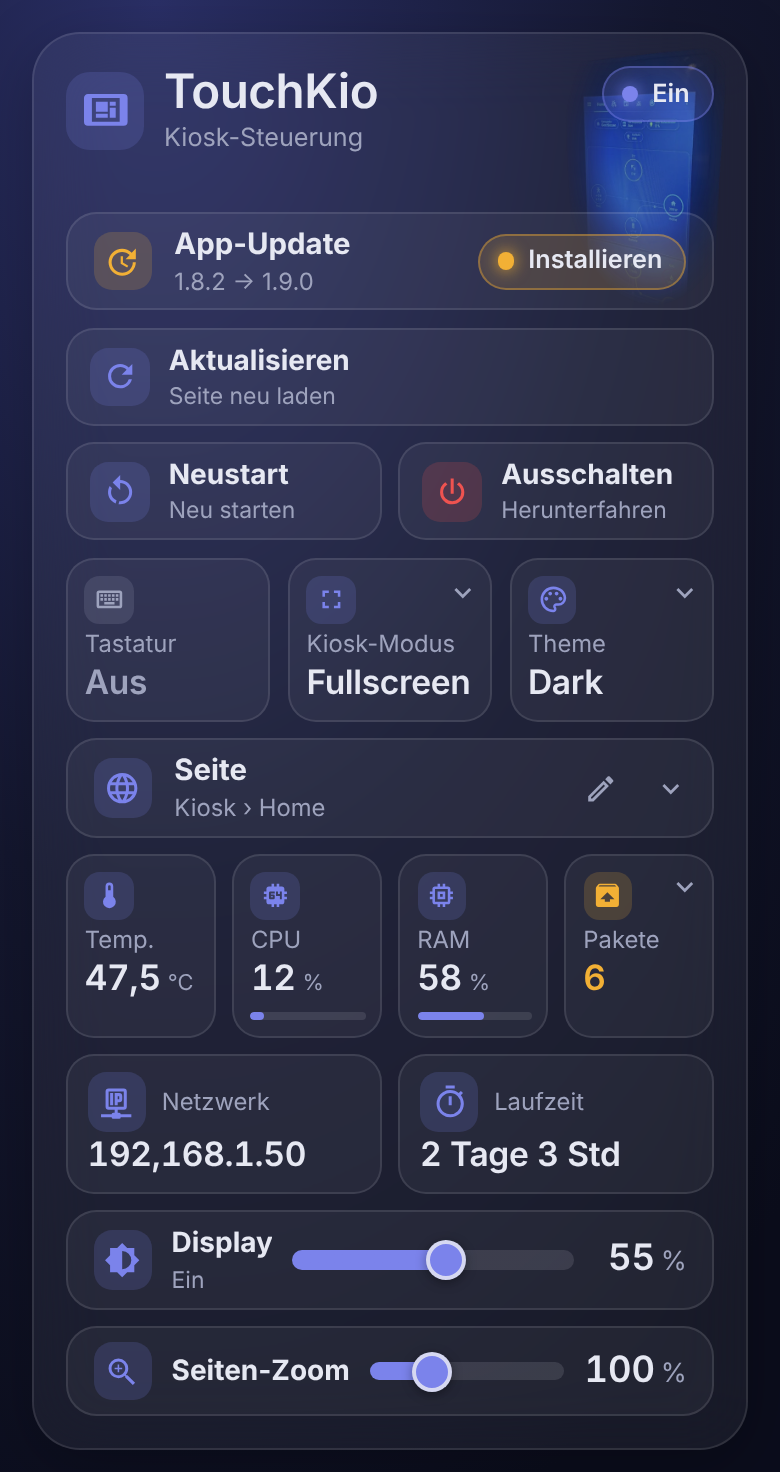
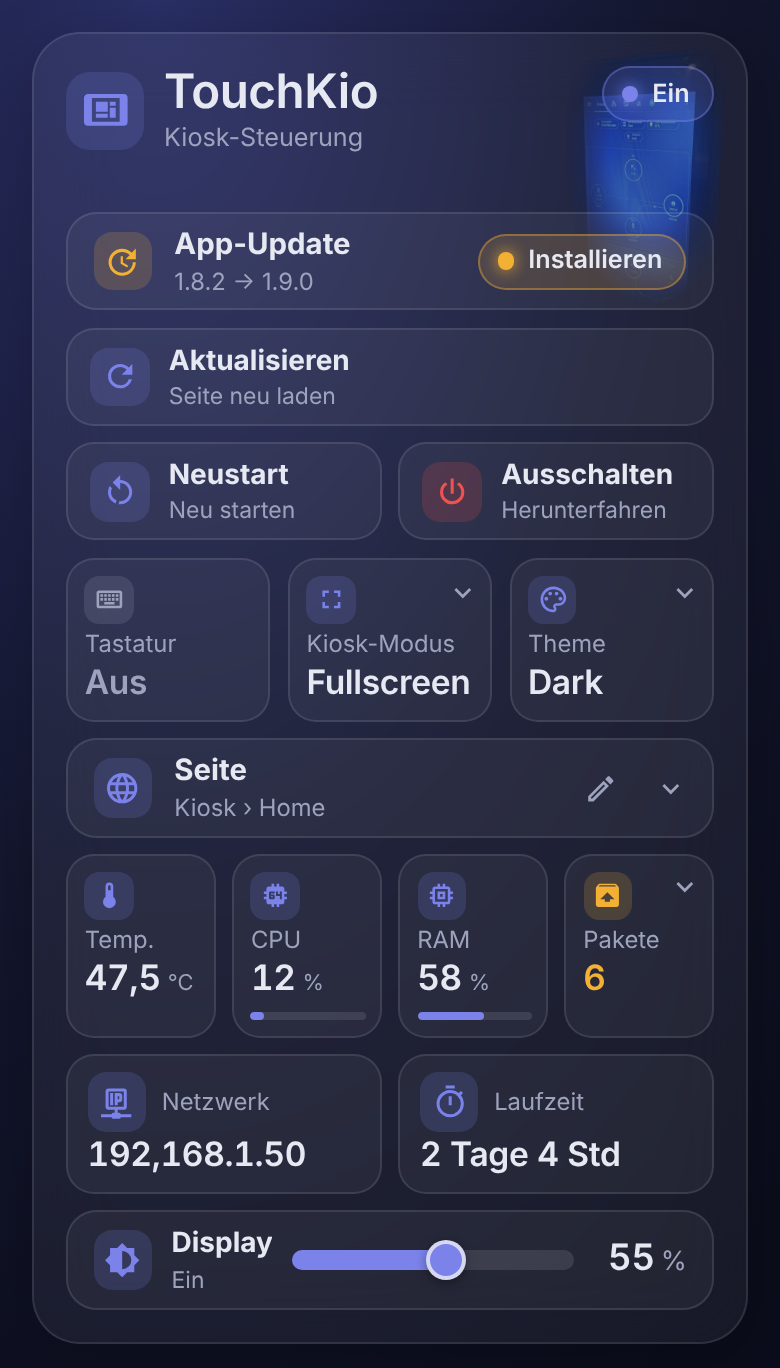
Seiten-Zoom entfernt, Laufzeit mit automatischer Einheit
- Box "Seiten-Zoom" und zoom_entity entfernt (Konfiguration, Editor, Doku).
- Laufzeit rechnet die vom Sensor gemeldeten Minuten in die passende Einheit um:
  "42 Min", "5 Std 12 Min", "2 Tage 4 Std".
- README-Screenshot aktualisiert.

Claude-Session: https://claude.ai/code/session_01KJcarzScGQfGHJyYJKzoFc

diff --git a/touchkio-card.js b/touchkio-card.js
@@ -12,7 +12,6 @@ const DEF={title:"TouchKio",subtitle:"Kiosk-Steuerung",show_image:true,image_url
   kiosk_entity:"select.touchkio_touchkio_kiosk",
   theme_entity:"select.touchkio_touchkio_theme",
   url_entity:"text.touchkio_touchkio_page_url",
-  zoom_entity:"number.touchkio_touchkio_page_zoom",
   temperature_entity:"sensor.touchkio_touchkio_processor_temperature",
   cpu_entity:"sensor.touchkio_touchkio_processor_usage",
   memory_entity:"sensor.touchkio_touchkio_memory_usage",
@@ -30,12 +29,12 @@ class TouchkioCard extends HTMLElement{
   static getConfigForm(){
     const e=(n,d)=>({name:n,selector:{entity:d?{domain:d}:{}}}),t=n=>({name:n,selector:{text:{}}}),x=(name,title,schema)=>({type:"expandable",name,title,flatten:true,schema});
     const L={title:"Titel",subtitle:"Untertitel",show_image:"Gerätebild als Hintergrund anzeigen",image_url:"Eigenes Gerätebild (URL, optional)",scale:"Größe (Kiosk: 1,2 – 1,5)",confirm_actions:"Neustart/Herunterfahren bestätigen lassen",
-      display_entity:"Display (Helligkeit)",keyboard_entity:"Bildschirmtastatur",kiosk_entity:"Kiosk-Modus",theme_entity:"Theme",url_entity:"Seiten-URL (Text-Entität, Seitenauswahl)",zoom_entity:"Seiten-Zoom",
+      display_entity:"Display (Helligkeit)",keyboard_entity:"Bildschirmtastatur",kiosk_entity:"Kiosk-Modus",theme_entity:"Theme",url_entity:"Seiten-URL (Text-Entität, Seitenauswahl)",
       temperature_entity:"Prozessor-Temperatur",cpu_entity:"Prozessor-Auslastung",memory_entity:"Speichernutzung",packages_entity:"Paket-Updates",network_entity:"Netzwerkadresse",uptime_entity:"Laufzeit",
       update_title:"Titel",update_entity:"Update-Entität",refresh_entity:"Seite aktualisieren",reboot_entity:"Neustart",shutdown_entity:"Herunterfahren"};
     return{schema:[
       x("general","Allgemein",[t("title"),t("subtitle"),{name:"show_image",selector:{boolean:{}}},t("image_url"),{name:"scale",selector:{number:{min:.8,max:1.8,step:.05,mode:"slider"}}},{name:"confirm_actions",selector:{boolean:{}}}]),
-      x("control","Steuerung",[e("display_entity","light"),e("zoom_entity","number"),e("keyboard_entity","switch"),e("kiosk_entity","select"),e("theme_entity","select"),e("url_entity","text")]),
+      x("control","Steuerung",[e("display_entity","light"),e("keyboard_entity","switch"),e("kiosk_entity","select"),e("theme_entity","select"),e("url_entity","text")]),
       x("system","System",[e("temperature_entity","sensor"),e("cpu_entity","sensor"),e("memory_entity","sensor"),e("packages_entity","sensor"),e("network_entity","sensor"),e("uptime_entity","sensor")]),
       x("update","Update",[t("update_title"),e("update_entity","update")]),
       x("actions","Aktionen",[e("refresh_entity","button"),e("reboot_entity","button"),e("shutdown_entity","button")])],
@@ -137,10 +136,21 @@ class TouchkioCard extends HTMLElement{
       groups.map(g=>`<optgroup label="${this._e(g.group)}">${g.items.map(it=>`<option value="${this._e(it.url)}"${cur&&norm(it.url)===norm(cur)?" selected":""}>${this._e(it.label)}</option>`).join("")}</optgroup>`).join("");
     return`<div class="panel row pick"><span class="chip"><ha-icon icon="mdi:web"></ha-icon></span><span class="ut"><b>Seite</b><small>${this._e(sub)}</small></span><button class="edit" data-more="${this._e(id)}" aria-label="URL bearbeiten"><ha-icon icon="mdi:pencil-outline"></ha-icon></button><ha-icon class="chev" icon="mdi:chevron-down"></ha-icon><select data-page="${this._e(id)}" aria-label="Seite wählen">${opts}</select></div>`;
   }
-  _tile(icon,id,label,tone,bar,text,act){
-    const v=text?{value:this._f(id),unit:"",num:NaN,text:true}:this._val(id);
+  _tile(icon,id,label,tone,bar,text,act,override){
+    const v=text?{value:override??this._f(id),unit:"",num:NaN,text:true}:this._val(id);
     const b=bar&&!isNaN(v.num)&&v.unit==="%"?`<i class="bar"><u style="width:${Math.max(0,Math.min(100,v.num))}%"></u></i>`:"";
     return`<button class="tile tone-${tone}" ${act==="pkgs"?`data-pkgs="1" aria-expanded="${!!this._pkgOpen}"`:`data-more="${this._e(id)}"`} aria-label="${this._e(label)}: ${this._e(v.value)} ${this._e(v.unit)}"><span class="chip"><ha-icon icon="${icon}"></ha-icon></span><span class="lbl">${label}</span><span class="val${v.text?" txt":""}"><b>${this._e(v.value)}</b>${v.unit?`<em>${this._e(v.unit)}</em>`:""}</span>${b}${act==="pkgs"?`<ha-icon class="chev" icon="mdi:chevron-${this._pkgOpen?"up":"down"}"></ha-icon>`:""}</button>`;
+  }
+  // Laufzeit in passender Einheit: "42 Min", "5 Std 12 Min", "2 Tage 3 Std" (TouchKio meldet Minuten)
+  _uptime(id){
+    const s=this._s(id);if(this._bad(s))return"—";
+    const n=Number(String(s.state).replace(",","."));if(!Number.isFinite(n)||n<0)return this._f(id);
+    const f={s:1/60,sec:1/60,min:1,h:60,d:1440}[String(s.attributes?.unit_of_measurement||"min").toLowerCase()];
+    if(!f)return this._f(id);
+    const t=Math.floor(n*f),d=Math.floor(t/1440),h=Math.floor(t%1440/60),m=t%60;
+    if(d>0)return`${d} ${d===1?"Tag":"Tage"}${h?` ${h} Std`:""}`;
+    if(h>0)return`${h} Std${m?` ${m} Min`:""}`;
+    return`${m} Min`;
   }
   // Liste der verfügbaren apt-Updates (Attribut "packages": [{name: version}, …])
   _pkgList(){
@@ -256,7 +266,7 @@ class TouchkioCard extends HTMLElement{
     ].filter(Boolean);
     const info=[
       has(c.network_entity)&&this._tile("mdi:ip-network-outline",c.network_entity,"Netzwerk","primary",false,true),
-      has(c.uptime_entity)&&this._tile("mdi:timer-outline",c.uptime_entity,"Laufzeit","primary",false,true)
+      has(c.uptime_entity)&&this._tile("mdi:timer-outline",c.uptime_entity,"Laufzeit","primary",false,true,"",this._uptime(c.uptime_entity))
     ].filter(Boolean);
     const ctl=[
       has(c.keyboard_entity)&&this._toggle("mdi:keyboard-outline",c.keyboard_entity,"Tastatur"),
@@ -279,7 +289,6 @@ class TouchkioCard extends HTMLElement{
       ${this._pkgPanel()}
       ${info.length?`<section class="two">${info.join("")}</section>`:""}
       ${has(c.display_entity)?this._slider("mdi:brightness-6",c.display_entity,"Display","light"):""}
-      ${has(c.zoom_entity)?this._slider("mdi:magnify-plus-outline",c.zoom_entity,"Seiten-Zoom","number"):""}
     </main></ha-card>`;
     const im=this.shadowRoot.querySelector(".bgimg");
     if(im)im.onerror=()=>{if(im.src!==EMBEDDED_IMAGE_URL)im.src=EMBEDDED_IMAGE_URL;else im.style.display="none";};

diff --git a/README.md b/README.md
@@ -24,12 +24,11 @@
 - Theme-sensitive Darstellung für Light Mode, Dark Mode und benutzerdefinierte Home-Assistant-Themes (Glas-Look)
 - Freigestelltes TouchKio-Gerätebild direkt in der JavaScript-Komponente eingebettet – groß im Hintergrund; optional eigene Bild-URL oder ausblendbar
 - Display-Helligkeit per Slider; Tippen auf das Symbol schaltet das Display ein oder aus
-- Seiten-Zoom per Slider
 - Bildschirmtastatur als Schalter-Kachel
 - Kiosk-Modus und Theme als Auswahl-Kacheln (nativer Picker)
 - Seitenauswahl: Picker mit allen vorhandenen Home-Assistant-Dashboards und deren Ansichten; die Auswahl wird in die Seiten-URL-Entität geschrieben. Der Stift öffnet die Detailansicht zum manuellen Bearbeiten der URL
 - Prozessor-Temperatur, CPU, RAM und Paket-Updates; Warnfarben (CPU orange ab 75 %, RAM ab 80 %, Temperatur ab 70 °C, rot ab 90 % / 90 % / 80 °C)
-- Netzwerkadresse und Laufzeit
+- Netzwerkadresse und Laufzeit (Einheit wird automatisch gewählt: Minuten, Stunden oder Tage)
 - App-Update-Zeile mit installierter und ggf. neuer Version; bei verfügbarem Update und unterstützter Installation erscheint der Button **Installieren** (mit zweitem Tippen zur Bestätigung), während der Installation der Fortschritt in Prozent
 - Tippen auf die Kachel **Pakete** klappt die Liste der verfügbaren System-Updates (Paketname und neue Version) auf und wieder zu
 - Aktualisieren, Neustart und Herunterfahren; Neustart und Herunterfahren verlangen ein zweites Tippen
@@ -41,7 +40,6 @@
 
 ```text
 light.touchkio_touchkio_display
-number.touchkio_touchkio_page_zoom
 switch.touchkio_touchkio_keyboard
 select.touchkio_touchkio_kiosk
 select.touchkio_touchkio_theme
@@ -89,7 +87,6 @@ type: custom:touchkio-card
 title: TouchKio
 subtitle: Kiosk-Steuerung
 display_entity: light.touchkio_touchkio_display
-zoom_entity: number.touchkio_touchkio_page_zoom
 keyboard_entity: switch.touchkio_touchkio_keyboard
 kiosk_entity: select.touchkio_touchkio_kiosk
 theme_entity: select.touchkio_touchkio_theme

diff --git a/CHANGELOG.md b/CHANGELOG.md
@@ -4,12 +4,11 @@
 
 - Erste Version der TouchKio Card im Stil der NAS Card.
 - Display-Helligkeit als Slider; Tippen auf das Symbol schaltet das Display ein oder aus.
-- Seiten-Zoom als Slider (Number-Entität, Min/Max/Schritt aus der Entität).
 - Kacheln für Bildschirmtastatur (Schalter) sowie Kiosk-Modus und Theme (Auswahl).
 - Seitenauswahl: Picker mit allen vorhandenen Home-Assistant-Dashboards und Ansichten; schreibt die gewählte URL in die Text-Entität. Der Stift öffnet die Detailansicht zum manuellen Bearbeiten.
 - Freigestelltes TouchKio-Gerätebild eingebettet und groß im Hintergrund; Optionen `show_image` und `image_url`.
 - Prozessor-Temperatur, CPU, RAM und Paket-Updates mit Warnfarben (CPU orange ab 75 %, RAM ab 80 %, Temperatur ab 70 °C; rot ab 90 %, 90 % bzw. 80 °C).
-- Netzwerkadresse und Laufzeit als Textkacheln.
+- Netzwerkadresse und Laufzeit als Textkacheln; die Laufzeit wählt die Einheit automatisch (Min, Std, Tage).
 - App-Update-Zeile mit installierter und ggf. neuer Version. Unterstützt die Entität die Installation, erscheint der Button **Installieren** (zweites Tippen zur Bestätigung, danach Fortschrittsanzeige).
 - Die Kachel **Pakete** klappt die Liste der verfügbaren System-Updates (Attribut `packages`) auf.
 - Aktionen Aktualisieren, Neustart und Herunterfahren; Neustart und Herunterfahren verlangen ein zweites Tippen.

diff --git a/RELEASE_NOTES_1.0.0.md b/RELEASE_NOTES_1.0.0.md
@@ -4,11 +4,11 @@ Erste Version der TouchKio Card für Home Assistant: Steuerung und Status eines 
 
 ## Highlights
 
-- Display-Helligkeit und Seiten-Zoom als Slider; Tippen auf das Display-Symbol schaltet das Display ein oder aus
+- Display-Helligkeit als Slider; Tippen auf das Display-Symbol schaltet das Display ein oder aus
 - Bildschirmtastatur, Kiosk-Modus und Theme direkt steuerbar
 - Seitenauswahl mit allen vorhandenen Home-Assistant-Dashboards und Ansichten; manuelle URL über den Stift
 - Temperatur, CPU, RAM und Paket-Updates mit Warnfarben; Liste der verfügbaren System-Updates per Tippen auf **Pakete**
-- Netzwerkadresse und Laufzeit
+- Netzwerkadresse und Laufzeit (Einheit automatisch: Minuten, Stunden oder Tage)
 - App-Update mit Button **Installieren** (zweites Tippen zur Bestätigung) und Fortschrittsanzeige, sofern TouchKio die Installation unterstützt
 - Aktualisieren, Neustart und Ausschalten; Neustart und Ausschalten verlangen ein zweites Tippen
 - Freigestelltes Gerätebild groß im Hintergrund (abschaltbar oder durch eigenes Bild ersetzbar)

diff --git a/RELEASE_CHECKLIST.md b/RELEASE_CHECKLIST.md
@@ -22,7 +22,7 @@
 - [ ] Visuellen Editor prüfen: Titel, Untertitel, Bild-Optionen und alle Entity-Picker.
 - [ ] Breitenänderung im Sections-Dashboard prüfen; Höhe darf nicht manuell skalierbar sein.
 - [ ] Mobile Ansicht prüfen (iPhone, iPad, Kiosk).
-- [ ] Display-Slider und Seiten-Zoom mit der echten TouchKio-Instanz prüfen.
+- [ ] Display-Slider mit der echten TouchKio-Instanz prüfen.
 - [ ] Seitenauswahl prüfen: Dashboards und Ansichten werden geladen, Auswahl ändert die Seiten-URL.
 - [ ] Kiosk-Modus und Theme (Auswahl) sowie Bildschirmtastatur (Schalter) prüfen.
 - [ ] Paket-Liste prüfen (Tippen auf „Pakete").
